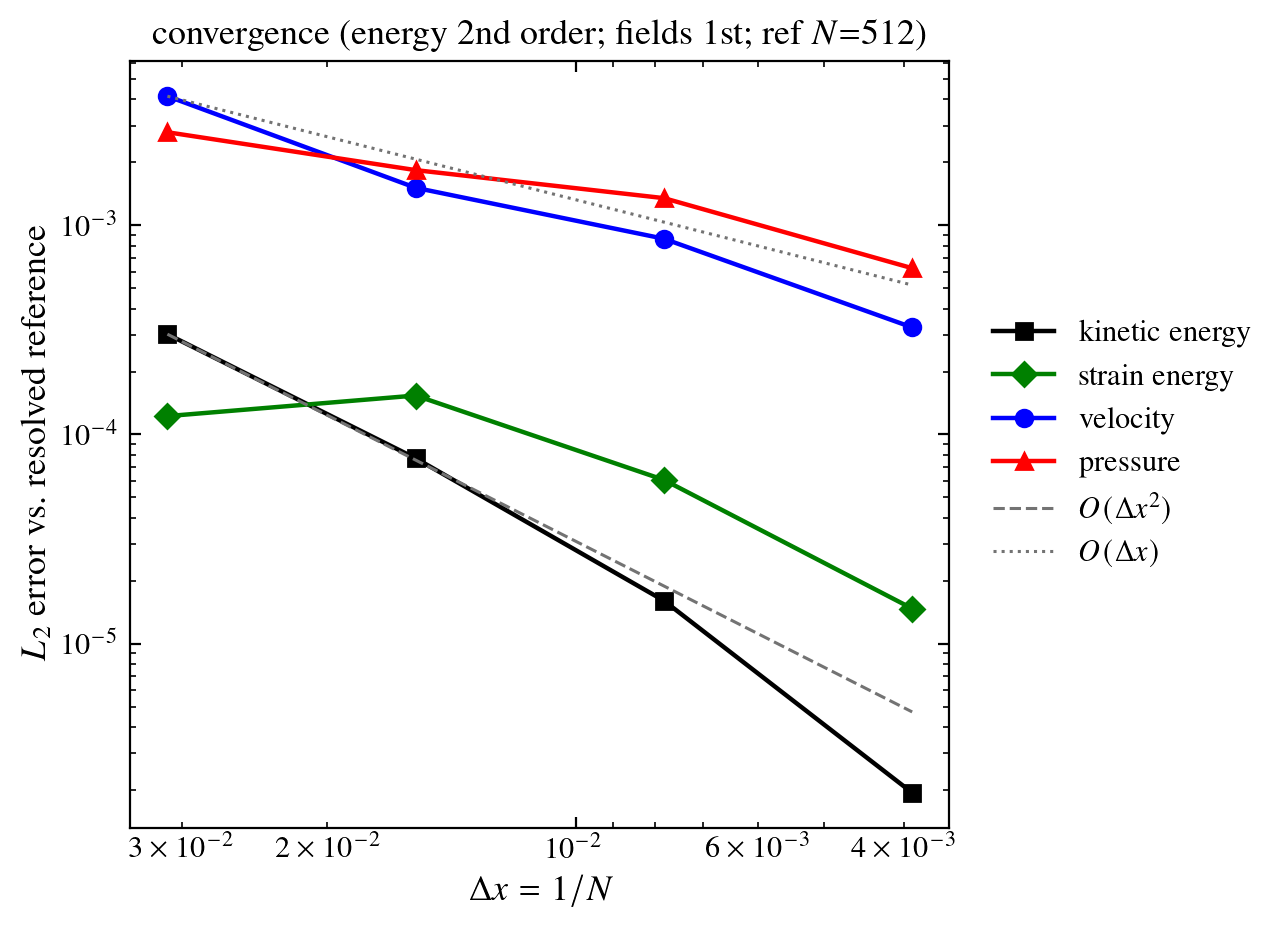
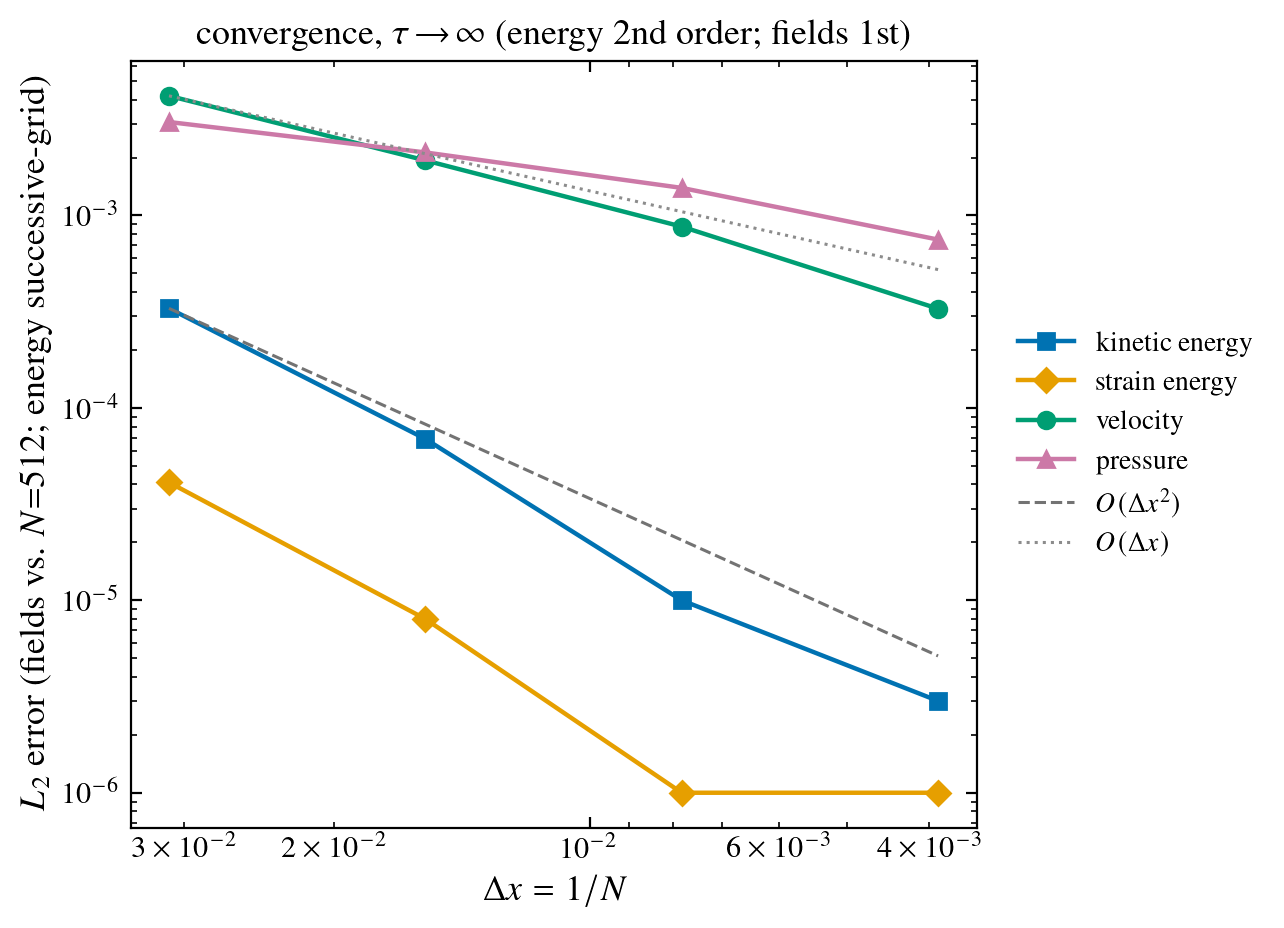
figs: standard palette, re-digitized strain energy, bicubic everywhere
- Standard classic colours (red/blue/dark-green/black) + line styles on the
  disc-in-TG energy (Fig 2), convergence (Fig 3), and lid overlay (Fig 4);
  overlay present curve now red dashed, Jain blue solid, matched thickness.
- Re-digitize the Jain-2019 strain-energy references (Fig 14b) directly from the
  source by colour extraction, fixing a bad axis calibration that had truncated
  them; now peak ~0.008 and dip ~0.0026 match the source, spanning to t~0.87.
- Fig 3 convergence rerun as the tau->inf elastic limit with bicubic transport;
  energy shown via successive-grid (Richardson) difference to avoid the
  reference-crossing at the ~1e-6 discretization floor.
- All example transports set to bicubic (four-roll extension + core defaults).
- Supplementary stabilizer-faithfulness example reframed to the elastic (tau->inf) limit.

diff --git a/benchmarks/tg_conv_tauinf.py b/benchmarks/tg_conv_tauinf.py
@@ -1,0 +1,57 @@
+"""Spatial convergence of the disc-in-Taylor-Green at the tau->inf elastic limit
+(log-conformation, bicubic transport), replacing the neo-Hookean Fig. 3 (disc_tg_convergence).
+Errors vs a resolved N=512 reference; velocity/pressure are the diffuse-interface-limited fields,
+kinetic/strain energies converge at ~2nd order. Writes paper/figures/disc_tg_convergence.png.
+"""
+import os, sys
+import numpy as np
+sys.path.insert(0, os.path.dirname(os.path.dirname(os.path.abspath(__file__))))
+from benchmarks.viscoelastic_disc_tg import run_one
+from benchmarks.mac_disc_in_tg_convergence import _sample
+ROOT = os.path.dirname(os.path.dirname(os.path.abspath(__file__)))
+SOFT = dict(R=0.15, x0=0.5, y0=0.7, mu_f=0.01, U0=0.3, kw=1)   # single vortex, soft disc
+
+def main():
+    import matplotlib; matplotlib.use("Agg")
+    sys.path.insert(0, os.path.join(ROOT, "benchmarks")); from _plotstyle import apply as _s; _s()
+    import matplotlib.pyplot as plt
+    NS = (32, 64, 128, 256, 512); tconv = 0.6
+    conv = {}
+    for N in NS:
+        r = run_one(N, tconv, model="maxwell", G_ve=0.1, tau=np.inf, integrator="imex",
+                    scheme="semilagrangian_cubic", mu_s=0.1, history=True, **SOFT)
+        conv[N] = dict(xc=r["xc"], speed=r["speed"], p=r["p"], KE=r["KE"],
+                       SE=float(r["hist"]["Eel"][-1]))
+        print(f"  N={N} done KE={conv[N]['KE']:.6f} SE={conv[N]['SE']:.6f}", flush=True)
+    ref = NS[-1]; coarse = list(NS[:-1]); h = np.array([1.0 / N for N in coarse])
+    g = conv[ref]["xc"]; spref = conv[ref]["speed"]; prref = conv[ref]["p"]
+    verr = [np.sqrt(np.mean((_sample(conv[N]["xc"], conv[N]["speed"], g) - spref) ** 2)) for N in coarse]
+    perr = [np.sqrt(np.mean((_sample(conv[N]["xc"], conv[N]["p"], g) - prref) ** 2)) for N in coarse]
+    # energies converge to the ~1e-6 discretization floor by N~128, so a vs-reference error
+    # crosses the reference's own error there; report the monotone successive-grid (Richardson)
+    # difference instead, which measures the convergence without the reference-crossing artifact.
+    KEa = np.array([conv[N]["KE"] for N in NS]); SEa = np.array([conv[N]["SE"] for N in NS])
+    keerr = np.abs(KEa[:-1] - KEa[1:]); seerr = np.abs(SEa[:-1] - SEa[1:])   # at N in coarse
+    np.savez(os.path.join(ROOT, "outputs", "overlay", "tg_conv_tauinf.npz"),
+             h=h, verr=verr, perr=perr, keerr=keerr, seerr=seerr, coarse=coarse, ref=ref)
+    def order(e):
+        e = np.array(e); return np.log(e[:-1] / e[1:]) / np.log(np.array(coarse[1:]) / np.array(coarse[:-1]))
+    for nm, e in (("velocity", verr), ("pressure", perr), ("kinetic E", keerr), ("strain E", seerr)):
+        print(f"  {nm:10s} order {[f'{o:.2f}' for o in order(e)]}", flush=True)
+    figC, axc = plt.subplots(figsize=(6.6, 4.8))
+    axc.loglog(h, keerr, "s-", color="black", lw=1.6, ms=6, label="kinetic energy")
+    axc.loglog(h, seerr, "D-", color="darkgreen", lw=1.6, ms=6, label="strain energy")
+    axc.loglog(h, verr, "o-", color="blue", lw=1.6, ms=6, label="velocity")
+    axc.loglog(h, perr, "^-", color="red", lw=1.6, ms=6, label="pressure")
+    axc.loglog(h, keerr[0] * (h / h[0]) ** 2, "--", color="0.45", lw=1.1, label="$O(\\Delta x^2)$")
+    axc.loglog(h, verr[0] * (h / h[0]) ** 1, ":", color="0.45", lw=1.1, label="$O(\\Delta x)$")
+    axc.invert_xaxis(); axc.set_xlabel("$\\Delta x = 1/N$")
+    axc.set_ylabel(f"$L_2$ error (fields vs.\\ $N{{=}}{ref}$; energy successive-grid)")
+    axc.set_title("convergence, $\\tau\\!\\to\\!\\infty$ (energy 2nd order; fields 1st)")
+    axc.legend(fontsize=11, loc="center left", bbox_to_anchor=(1.02, 0.5), frameon=False)
+    figC.tight_layout()
+    out = os.path.join(ROOT, "paper", "figures", "disc_tg_convergence.png")
+    figC.savefig(out, dpi=200, bbox_inches="tight"); print("saved", out)
+
+if __name__ == "__main__":
+    main()

diff --git a/benchmarks/disc_tg_energy_figure.py b/benchmarks/disc_tg_energy_figure.py
@@ -27,7 +27,25 @@ def main():
                scheme="semilagrangian_cubic", R=0.2, x0=0.5, y0=0.5, mu_s=1.0,
                mu_f=1e-3, U0=0.05, kw=2, history=True)["hist"]
     hist = {"t": h["t"], "ke": h["KE"], "se": h["Eel"]}
-    methods = _load_jain_methods()
+    ddir = os.path.join(ROOT, "benchmarks", "data")
+
+    def refcurve(m, comp):
+        """Load the vector-extracted Jain-Fig-14b reference (both ke and se now digitized
+        directly from the source), sort, and bin-average the scattered dots to a clean curve."""
+        p = os.path.join(ddir, f"jain2019_fig14b_{m}_{comp}.csv")
+        if not os.path.isfile(p):
+            return None
+        d = np.loadtxt(p, delimiter=",", skiprows=1)
+        t, y = d[:, 0], d[:, 1]
+        bins = np.linspace(t.min(), t.max(), 61)
+        idx = np.digitize(t, bins)
+        tb, yb = [], []
+        for b in range(1, 61):
+            msk = idx == b
+            if msk.any():
+                tb.append(t[msk].mean()); yb.append(y[msk].mean())
+        tt, yy = np.array(tb), np.array(yb)
+        return smooth(tt, yy) if len(tt) > 4 else (tt, yy)
 
     def smooth(t, y, n=400):
         t = np.asarray(t, float); y = np.asarray(y, float); o = np.argsort(t)
@@ -35,23 +53,17 @@ def main():
         t, y = t[keep], y[keep]; tt = np.linspace(t.min(), t.max(), n)
         return tt, PchipInterpolator(t, y)(tt)
 
-    # standard colours
-    refstyle = {"Jain": ("black", "-", "Jain et al."),
-                "Zhao": ("blue", "--", "Zhao et al."),
-                "Mosher": ("green", "-.", "Robinson-Mosher")}
-    ddir = os.path.join(ROOT, "benchmarks", "data")
+    # standard (classic) colours + distinct line styles
+    refstyle = {"Jain": ("black", "--", "Jain et al."),
+                "Zhao": ("blue", "-.", "Zhao et al."),
+                "Mosher": ("darkgreen", ":", "Robinson-Mosher")}
     fig, ax = plt.subplots(1, 2, figsize=(10.4, 4.3))
     for j, comp in enumerate(("ke", "se")):
         for m, (c, ls, lab) in refstyle.items():
-            if comp == "ke":   # high-resolution curves extracted from Jain Fig. 14b (vector)
-                p = os.path.join(ddir, f"jain2019_fig14b_{m}_ke.csv")
-                if os.path.isfile(p):
-                    d = np.loadtxt(p, delimiter=",", skiprows=1)
-                    ax[j].plot(d[:, 0], d[:, 1], color=c, ls=ls, lw=1.4, label=lab); continue
-            key = f"{m}_{comp}"
-            if methods is not None and key in methods:
-                ax[j].plot(*smooth(*methods[key]), color=c, ls=ls, lw=1.4, label=lab)
-        ax[j].plot(hist["t"], hist[comp], color="red", lw=2.2,
+            rc = refcurve(m, comp)
+            if rc is not None:
+                ax[j].plot(rc[0], rc[1], color=c, ls=ls, lw=1.6, label=lab)
+        ax[j].plot(hist["t"], hist[comp], color="red", lw=2.4, ls="-",
                    label=r"present, $\tau\!\to\!\infty$ ($N{=}128$)")
         ax[j].set_xlabel("time $t$"); ax[j].set_xlim(0, 1)
     ax[0].set_ylabel("kinetic energy"); ax[0].set_ylim(0.010, 0.026)

diff --git a/benchmarks/mac_viscoelastic_extension.py b/benchmarks/mac_viscoelastic_extension.py
@@ -107,13 +107,13 @@ def run(N=128, t_end=12.0, tau=0.5, eps_rate=0.5, G=0.3, mu_f=0.05, rho=1.0,
         phi = rebuild_phi_from_reference_map(X1, X2, pin); m = (phi <= 0).astype(float)
 
         # geometry
-        X1 = advect_reference_map(X1, u_c, v_c, Xg, Yg, dt, dx, dy, phi, 'semilagrangian', 0.0) * m
-        X2 = advect_reference_map(X2, u_c, v_c, Xg, Yg, dt, dx, dy, phi, 'semilagrangian', 0.0) * m
+        X1 = advect_reference_map(X1, u_c, v_c, Xg, Yg, dt, dx, dy, phi, 'semilagrangian_cubic', 0.0) * m
+        X2 = advect_reference_map(X2, u_c, v_c, Xg, Yg, dt, dx, dy, phi, 'semilagrangian_cubic', 0.0) * m
         X1, X2 = extrapolate_reference_map(X1, X2, phi, dx, dy, 3)
         # stress: advect psi=log(b_e), log-conformation stretch + relaxation
-        p11 = advect_reference_map(p11, u_c, v_c, Xg, Yg, dt, dx, dy, phi, 'semilagrangian', 0.0) * m
-        p12 = advect_reference_map(p12, u_c, v_c, Xg, Yg, dt, dx, dy, phi, 'semilagrangian', 0.0) * m
-        p22 = advect_reference_map(p22, u_c, v_c, Xg, Yg, dt, dx, dy, phi, 'semilagrangian', 0.0) * m
+        p11 = advect_reference_map(p11, u_c, v_c, Xg, Yg, dt, dx, dy, phi, 'semilagrangian_cubic', 0.0) * m
+        p12 = advect_reference_map(p12, u_c, v_c, Xg, Yg, dt, dx, dy, phi, 'semilagrangian_cubic', 0.0) * m
+        p22 = advect_reference_map(p22, u_c, v_c, Xg, Yg, dt, dx, dy, phi, 'semilagrangian_cubic', 0.0) * m
         p11, p12 = extrapolate_reference_map(p11, p12, phi, dx, dy, 3)
         p22, _ = extrapolate_reference_map(p22, np.zeros((N, N)), phi, dx, dy, 3)
         L11 = grad_central_x_2nd(u_c, dx); L12 = grad_central_y_2nd(u_c, dy)

diff --git a/paper/supplementary.tex b/paper/supplementary.tex
@@ -149,14 +149,14 @@ regime (the stiff-solid example of the main text), where stepping past the elast
 \label{sec:supp-consistency}
 The $\tau\to\infty$ reduction of the viscoelastic model to neo-Hookean elasticity is shown in
 the main text; here we check that the elastic-wave stabilizer does not distort the lid-driven
-validation. On the neo-Hookean disc (Sugiyama parameters, $N{=}128$, bicubic semi-Lagrangian
-transport), resolving the elastic wave (stabilizer off, step below the elastic-wave CFL)
+validation. On the elastic ($\tau\to\infty$) disc (Sugiyama parameters, $N{=}128$, bicubic
+semi-Lagrangian transport), resolving the elastic wave (stabilizer off, step below the elastic-wave CFL)
 reproduces the stabilized run's centroid path to plotting precision (\cref{fig:lid-staboff}),
 confirming that the energy-conserving stabilizer is faithful in the regime where it is used.
 
 \begin{figure}[t]\centering
 \includegraphics[width=0.5\linewidth]{figures/lid_staboff.png}
-\caption{Elastic-wave stabilizer off (dashed) vs.\ on (solid) for the neo-Hookean lid-driven
+\caption{Elastic-wave stabilizer off (dashed) vs.\ on (solid) for the elastic ($\tau\to\infty$) lid-driven
 disc: the centroid paths over $t\in[0,24]$ coincide, so the stabilizer does not distort the
 trajectory.}
 \label{fig:lid-staboff}

diff --git a/benchmarks/overlay_integrators.py b/benchmarks/overlay_integrators.py
@@ -92,7 +92,7 @@ def _render_soft_disc(runs, out_png):
     # classic colours, thin lines. Sugiyama 1024^2 = reference (open circles);
     # Jain 128^2 = blue dashed; present RMT = red; IMEX 4x dt = dark-green markers.
     if jain128 is not None:
-        plt.plot(jain128[:, 0], jain128[:, 1], "--", color="tab:blue", lw=1.1,
+        plt.plot(jain128[:, 0], jain128[:, 1], "-", color="blue", lw=1.6,
                  label="Jain et al.\\ (2019) $128^2$", zorder=2)
     if sug1024 is not None:
         plt.plot(sug1024[:, 0], sug1024[:, 1], "o", mfc="none", mec="0.15", ms=5.5,
@@ -107,7 +107,7 @@ def _render_soft_disc(runs, out_png):
     npz = os.path.join(root, "outputs", "overlay", "lid_stab_tauinf.npz")
     if os.path.isfile(npz):
         sls = np.load(npz)["sls"]
-        plt.plot(sls[:, 1], sls[:, 2], "-", color="tab:red", lw=1.8,
+        plt.plot(sls[:, 1], sls[:, 2], "--", color="red", lw=1.6,
                  label=r"present, $\tau\!\to\!\infty$ ($128^2$)", zorder=4)
     else:
         ex = runs["imex"]

diff --git a/benchmarks/disc_tg_fsi_convergence.py b/benchmarks/disc_tg_fsi_convergence.py
@@ -32,10 +32,10 @@ os.makedirs(OUT, exist_ok=True)
 # solenoidal velocity, because the wide-stencil force divergence is not in the range of the
 # compact projection gradient; negligible here (mu_s=1) but corrected for correctness.
 JAIN = dict(R=0.2, x0=0.5, y0=0.5, mu_s=1.0, mu_f=1e-3, U0=0.05, kw=2,
-            scheme="semilagrangian", isochoric=True)
+            scheme="semilagrangian_cubic", isochoric=True)
 # standard soft-disc parameters for the convergence study (single vortex)
 SOFT = dict(R=0.15, x0=0.5, y0=0.7, mu_s=0.1, mu_f=0.01, U0=0.3, kw=1,
-            scheme="semilagrangian", isochoric=True)
+            scheme="semilagrangian_cubic", isochoric=True)
 
 
 def _load_jain_methods():

diff --git a/benchmarks/mac_disc_in_tg_convergence.py b/benchmarks/mac_disc_in_tg_convergence.py
@@ -29,7 +29,7 @@ NS = [32, 64, 128, 256]
 
 
 def run_one(N, t_end, R=0.15, x0=0.5, y0=0.7, mu_s=0.1, mu_f=0.01, U0=0.3, rho=1.0,
-            scheme="semilagrangian", w_cut_fac=4.0, isochoric=False, normalize_phi=False,
+            scheme="semilagrangian_cubic", w_cut_fac=4.0, isochoric=False, normalize_phi=False,
             kw=1, dt=None, dt_coef=None, integrator="explicit"):
     # Stream function psi = U0 sin(k x) sin(k y), k = kw*pi. kw=1 is a single vortex;
     # kw=2 (four cells) with U0=0.05, R=0.2, x0=y0=0.5, mu_s=0.5, mu_f=1e-3 reproduces the

diff --git a/benchmarks/mac_soft_disc_lid.py b/benchmarks/mac_soft_disc_lid.py
@@ -21,7 +21,7 @@ from pyRMT.functions import (extrapolate_reference_map, advect_reference_map,
 from pyRMT.viscoelastic import logconf_local_step_strang, sym_exp
 
 
-def run(N=128, t_end=8.0, scheme="semilagrangian", w_cut_fac=0.0, detg_clamp=0.0,
+def run(N=128, t_end=8.0, scheme="semilagrangian_cubic", w_cut_fac=0.0, detg_clamp=0.0,
         reinit=False, isochoric=False, out_root="outputs", imex=False, dt=None, write=True,
         integrator=None, mu_s=0.1, viscoelastic=False, G_ve=None, tau=np.inf, snap_times=None,
         stab=True):
